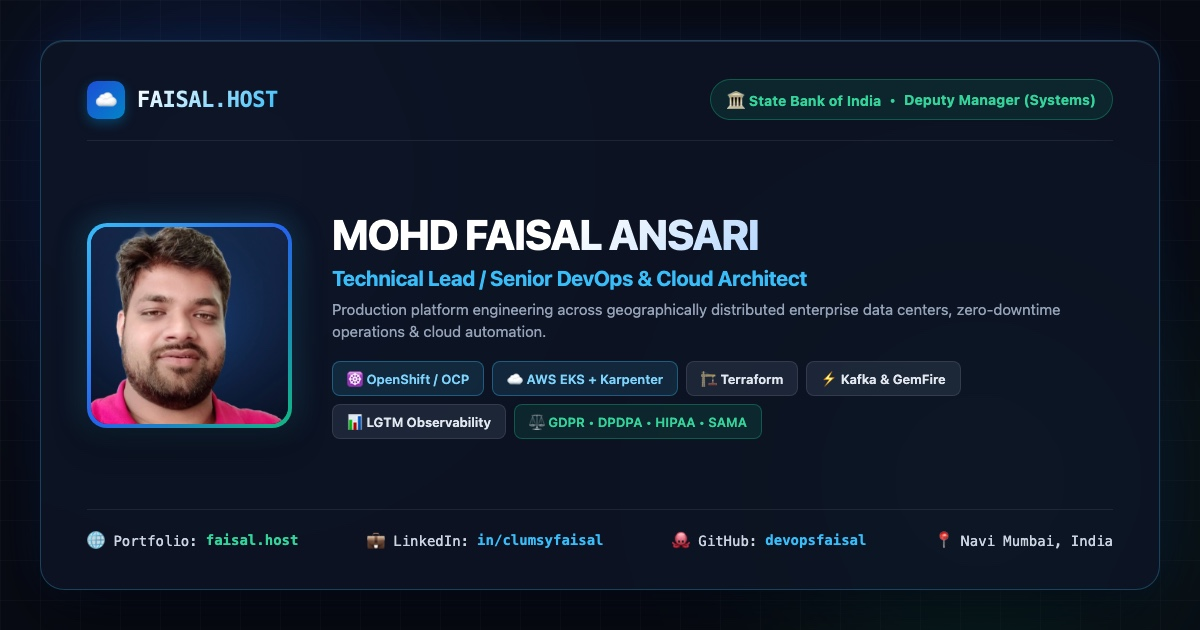
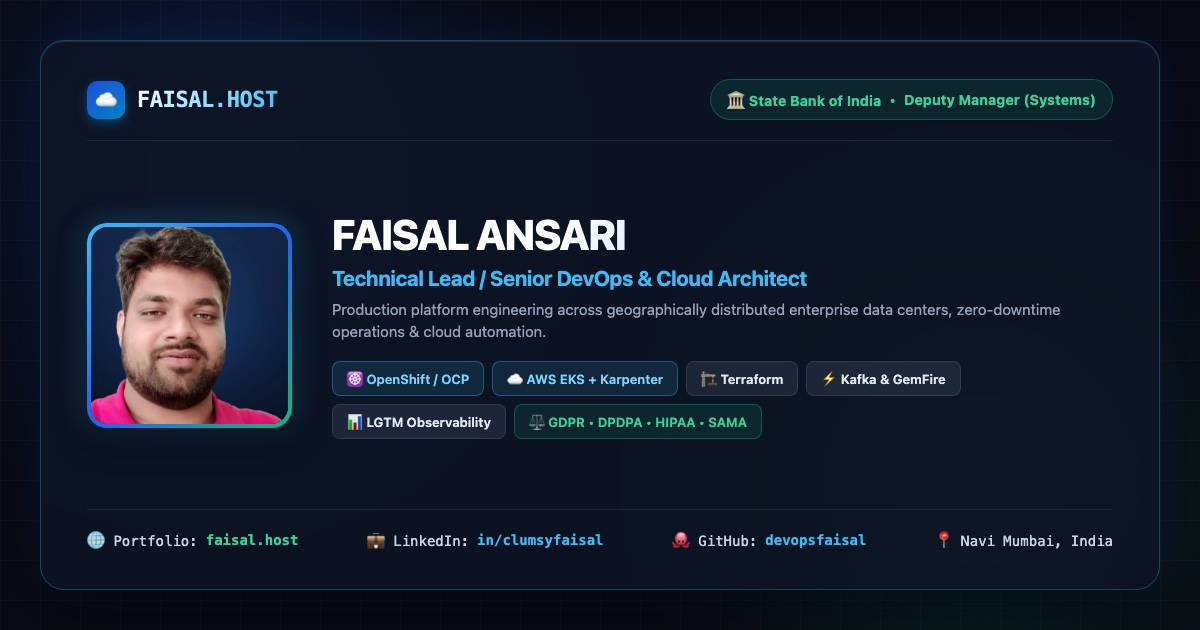
fix(branding): unify name exclusively to FAISAL ANSARI across og-preview, meta tags, and sitemap

Changed region(s): [[0.2775, 0.3317, 0.6475, 0.4222]]

diff --git a/index.html b/index.html
@@ -4,26 +4,26 @@
 <head>
   <meta charset="UTF-8">
   <meta name="viewport" content="width=device-width, initial-scale=1.0">
-  <title>Mohd Faisal Ansari — Technical Lead / Senior DevOps &amp; Cloud Architect</title>
+  <title>Faisal Ansari — Technical Lead / Senior DevOps &amp; Cloud Architect</title>
 
   <!-- SEO & Search Discovery Meta Tags -->
   <meta name="description"
-    content="Official portfolio of Mohd Faisal Ansari (Faisal Ansari) — Technical Lead &amp; Senior DevOps/Cloud Architect. Enterprise OpenShift at State Bank of India (SBI), AWS EKS Karpenter, Terraform, Kafka, Tanzu GemFire, and GDPR/HIPAA/DPDPA/SAMA compliance.">
+    content="Official portfolio of Faisal Ansari — Technical Lead &amp; Senior DevOps/Cloud Architect. Enterprise OpenShift at State Bank of India (SBI), AWS EKS Karpenter, Terraform, Kafka, Tanzu GemFire, and GDPR/HIPAA/DPDPA/SAMA compliance.">
   <meta name="keywords"
-    content="Mohd Faisal Ansari, Faisal Ansari, Faisal Ansari DevOps, Faisal Ansari SBI, Faisal Ansari Cloud Architect, Faisal Ansari State Bank of India, OpenShift Architect, AWS EKS Karpenter, DevOps Engineer Navi Mumbai, Kafka GemFire Istio, DPDPA GDPR HIPAA SAMA DevOps">
-  <meta name="author" content="Mohd Faisal Ansari">
+    content="Faisal Ansari, Faisal Ansari DevOps, Faisal Ansari SBI, Faisal Ansari Cloud Architect, Faisal Ansari State Bank of India, OpenShift Architect, AWS EKS Karpenter, DevOps Engineer Navi Mumbai, Kafka GemFire Istio, DPDPA GDPR HIPAA SAMA DevOps">
+  <meta name="author" content="Faisal Ansari">
   <link rel="canonical" href="https://faisal.host/">
   <meta name="robots" content="index, follow, max-image-preview:large, max-snippet:-1, max-video-preview:-1">
 
   <!-- Open Graph / Facebook -->
   <meta property="og:type" content="profile">
-  <meta property="og:title" content="Mohd Faisal Ansari — Technical Lead / Senior DevOps &amp; Cloud Architect">
+  <meta property="og:title" content="Faisal Ansari — Technical Lead / Senior DevOps &amp; Cloud Architect">
   <meta property="og:description"
     content="Operating high-throughput tier-1 banking systems at SBI, AWS EKS Karpenter, OpenShift, Kafka, GemFire, and global regulatory compliance.">
   <meta property="og:url" content="https://faisal.host/">
-  <meta property="og:image" content="https://faisal.host/assets/og-preview.png?v=3">
+  <meta property="og:image" content="https://faisal.host/assets/og-preview.png?v=4">
   <meta property="og:site_name" content="Faisal Ansari Portfolio">
-  <meta property="profile:first_name" content="Mohd Faisal">
+  <meta property="profile:first_name" content="Faisal">
   <meta property="profile:last_name" content="Ansari">
   <meta property="profile:username" content="clumsyfaisal">
 
@@ -31,10 +31,10 @@
   <meta name="twitter:card" content="summary_large_image">
   <meta name="twitter:site" content="@clumsyfaisal">
   <meta name="twitter:creator" content="@clumsyfaisal">
-  <meta name="twitter:title" content="Mohd Faisal Ansari — Technical Lead / Senior DevOps &amp; Cloud Architect">
+  <meta name="twitter:title" content="Faisal Ansari — Technical Lead / Senior DevOps &amp; Cloud Architect">
   <meta name="twitter:description"
     content="Enterprise platform engineering, OpenShift at SBI, AWS EKS Karpenter, Kafka lag tuning, and DevSecOps pipelines.">
-  <meta name="twitter:image" content="https://faisal.host/assets/og-preview.png?v=3">
+  <meta name="twitter:image" content="https://faisal.host/assets/og-preview.png?v=4">
 
   <!-- Favicon and App Icons (with cache busting) -->
   <link rel="icon" type="image/svg+xml" href="assets/favicon.svg?v=6">
@@ -65,8 +65,8 @@
       {
         "@type": "Person",
         "@id": "https://faisal.host/#person",
-        "name": "Mohd Faisal Ansari",
-        "alternateName": ["Faisal Ansari", "devopsfaisal", "clumsyfaisal"],
+        "name": "Faisal Ansari",
+        "alternateName": ["devopsfaisal", "clumsyfaisal"],
         "url": "https://faisal.host",
         "image": "https://faisal.host/assets/faisal-hero-portrait.jpg",
         "jobTitle": "Technical Lead / Senior DevOps & Cloud Architect",
@@ -117,7 +117,7 @@
         "@id": "https://faisal.host/#website",
         "url": "https://faisal.host",
         "name": "Faisal Ansari — Cloud & Platform Architect",
-        "description": "Enterprise Cloud & DevOps portfolio of Mohd Faisal Ansari",
+        "description": "Enterprise Cloud & DevOps portfolio of Faisal Ansari",
         "publisher": {
           "@id": "https://faisal.host/#person"
         }
@@ -126,7 +126,7 @@
         "@type": "ProfilePage",
         "@id": "https://faisal.host/#webpage",
         "url": "https://faisal.host",
-        "name": "Mohd Faisal Ansari — Senior DevOps & Cloud Architect Portfolio",
+        "name": "Faisal Ansari — Senior DevOps & Cloud Architect Portfolio",
         "isPartOf": {
           "@id": "https://faisal.host/#website"
         },
